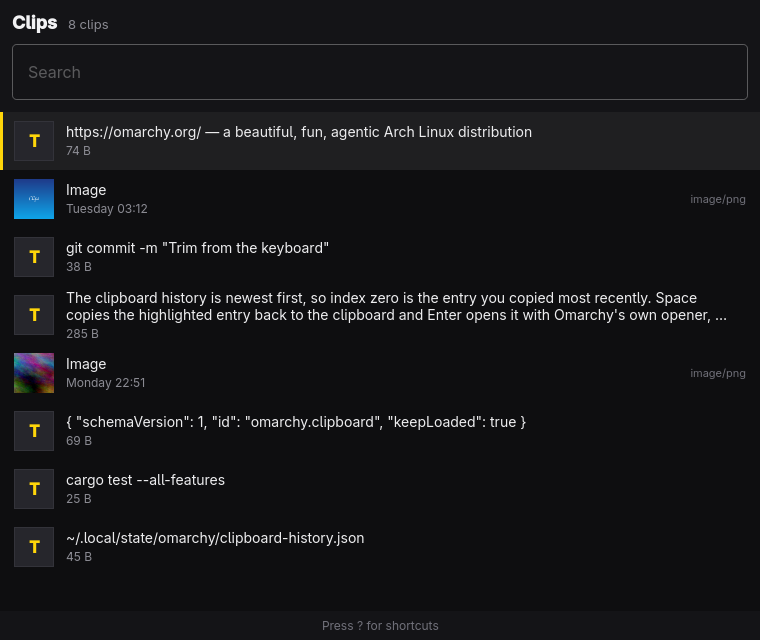
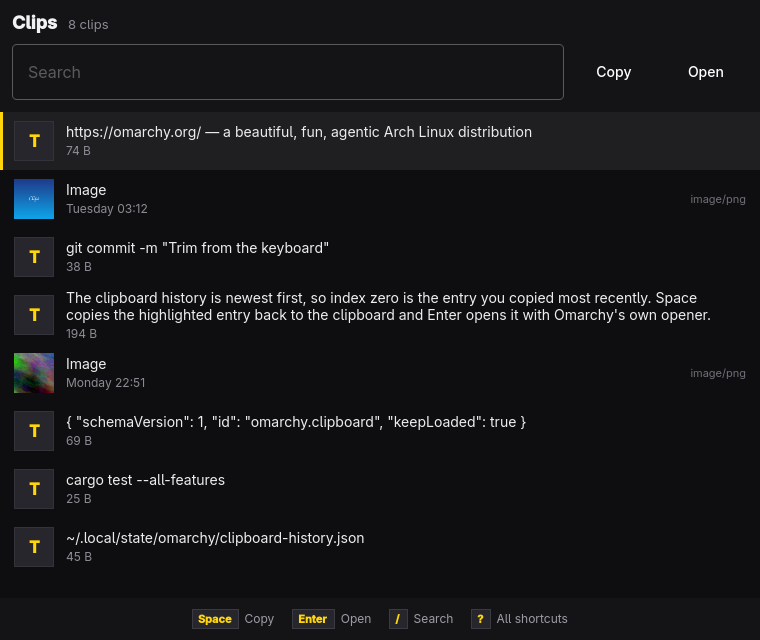
Put the common commands on screen

diff --git a/src/Main.qml b/src/Main.qml
@@ -185,12 +185,37 @@ ApplicationWindow {
                         }
                     }
 
-                    TextField {
-                        id: searchField
+                    RowLayout {
                         Layout.fillWidth: true
-                        placeholderText: qsTr("Search")
-                        selectByMouse: true
-                        onTextChanged: win.recompute()
+                        spacing: 8
+
+                        TextField {
+                            id: searchField
+                            Layout.fillWidth: true
+                            placeholderText: qsTr("Search")
+                            selectByMouse: true
+                            onTextChanged: win.recompute()
+                        }
+
+                        // The two actions are on screen as well as on keys, so
+                        // they can be found without opening the shortcut sheet.
+                        Button {
+                            text: qsTr("Copy")
+                            enabled: win.filtered.length > 0
+                            onClicked: win.copyCurrent()
+                            ToolTip.text: qsTr("Space")
+                            ToolTip.visible: hovered
+                            ToolTip.delay: 400
+                        }
+
+                        Button {
+                            text: qsTr("Open")
+                            enabled: win.filtered.length > 0
+                            onClicked: win.openCurrent()
+                            ToolTip.text: qsTr("Enter")
+                            ToolTip.visible: hovered
+                            ToolTip.delay: 400
+                        }
                     }
                 }
             }
@@ -244,18 +269,58 @@ ApplicationWindow {
                 }
             }
 
+            // Always-visible legend: the common commands are easy to find
+            // without opening the full `?` sheet.
             Rectangle {
                 Layout.fillWidth: true
-                implicitHeight: footer.implicitHeight + 14
+                implicitHeight: 42
                 color: "#141417"
 
-                Text {
+                Row {
                     id: footer
                     anchors.centerIn: parent
-                    textFormat: Text.PlainText
-                    text: qsTr("Press ? for shortcuts")
-                    color: "#6f6f78"
-                    font.pixelSize: 12
+                    spacing: 18
+
+                    Repeater {
+                        model: [
+                            { key: "Space", what: qsTr("Copy") },
+                            { key: "Enter", what: qsTr("Open") },
+                            { key: "/", what: qsTr("Search") },
+                            { key: "?", what: qsTr("All shortcuts") }
+                        ]
+
+                        delegate: Row {
+                            spacing: 6
+
+                            Rectangle {
+                                anchors.verticalCenter: parent.verticalCenter
+                                width: keyLabel.width + 12
+                                height: 20
+                                radius: Math.min(4, theme.radius)
+                                color: "#26262c"
+                                border.color: "#3a3a42"
+                                border.width: 1
+
+                                Text {
+                                    id: keyLabel
+                                    anchors.centerIn: parent
+                                    textFormat: Text.PlainText
+                                    text: modelData.key
+                                    color: theme.accent
+                                    font.pixelSize: 11
+                                    font.bold: true
+                                }
+                            }
+
+                            Text {
+                                anchors.verticalCenter: parent.verticalCenter
+                                textFormat: Text.PlainText
+                                text: modelData.what
+                                color: "#9a9aa2"
+                                font.pixelSize: 12
+                            }
+                        }
+                    }
                 }
             }
         }

diff --git a/README.md b/README.md
@@ -22,6 +22,9 @@ read-only: the shell owns the file, so Clips never writes to it.
 | `?`            | Show every shortcut                 |
 | `Q`            | Quit                                |
 
+Copy and Open are on screen next to the search box too, and the footer keeps
+the common keys visible. `?` shows the full list.
+
 Copying a text entry puts it back on the clipboard with `wl-copy`; copying an
 image puts the image back. Opening an entry hands it to Omarchy's own opener
 (`omarchy-clipboard-open`), so a URL opens in the browser, text opens in the
